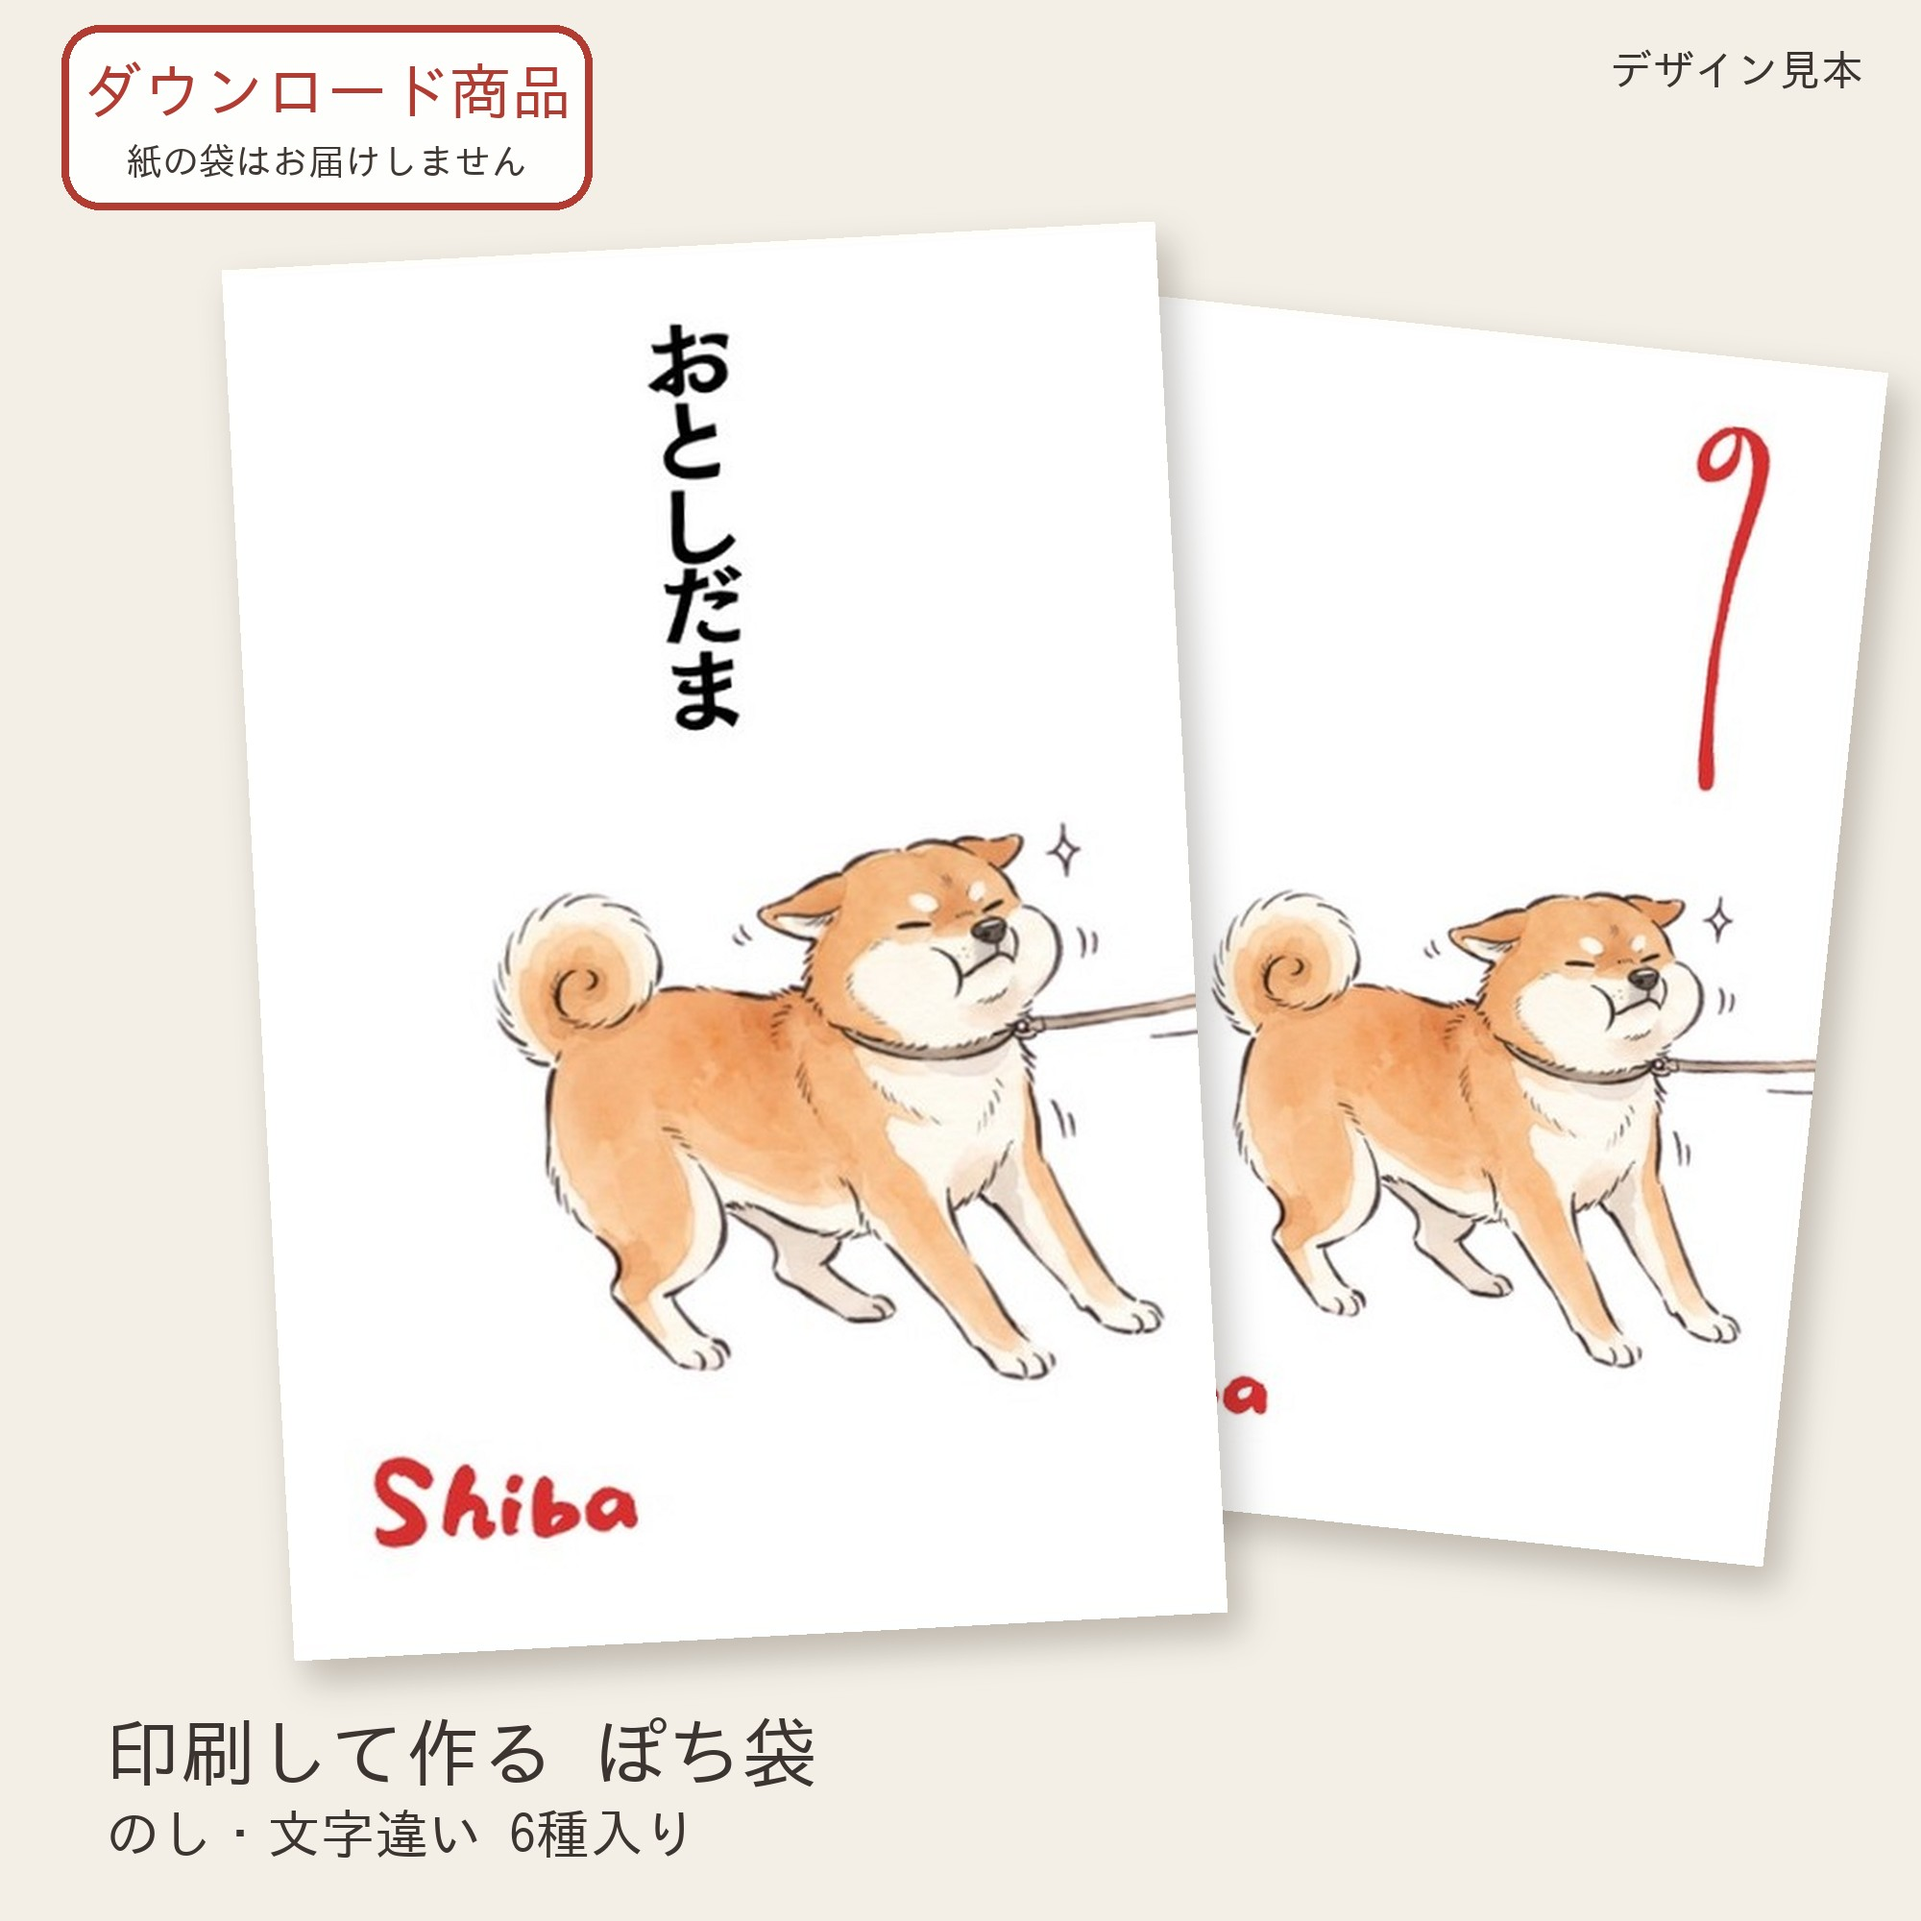
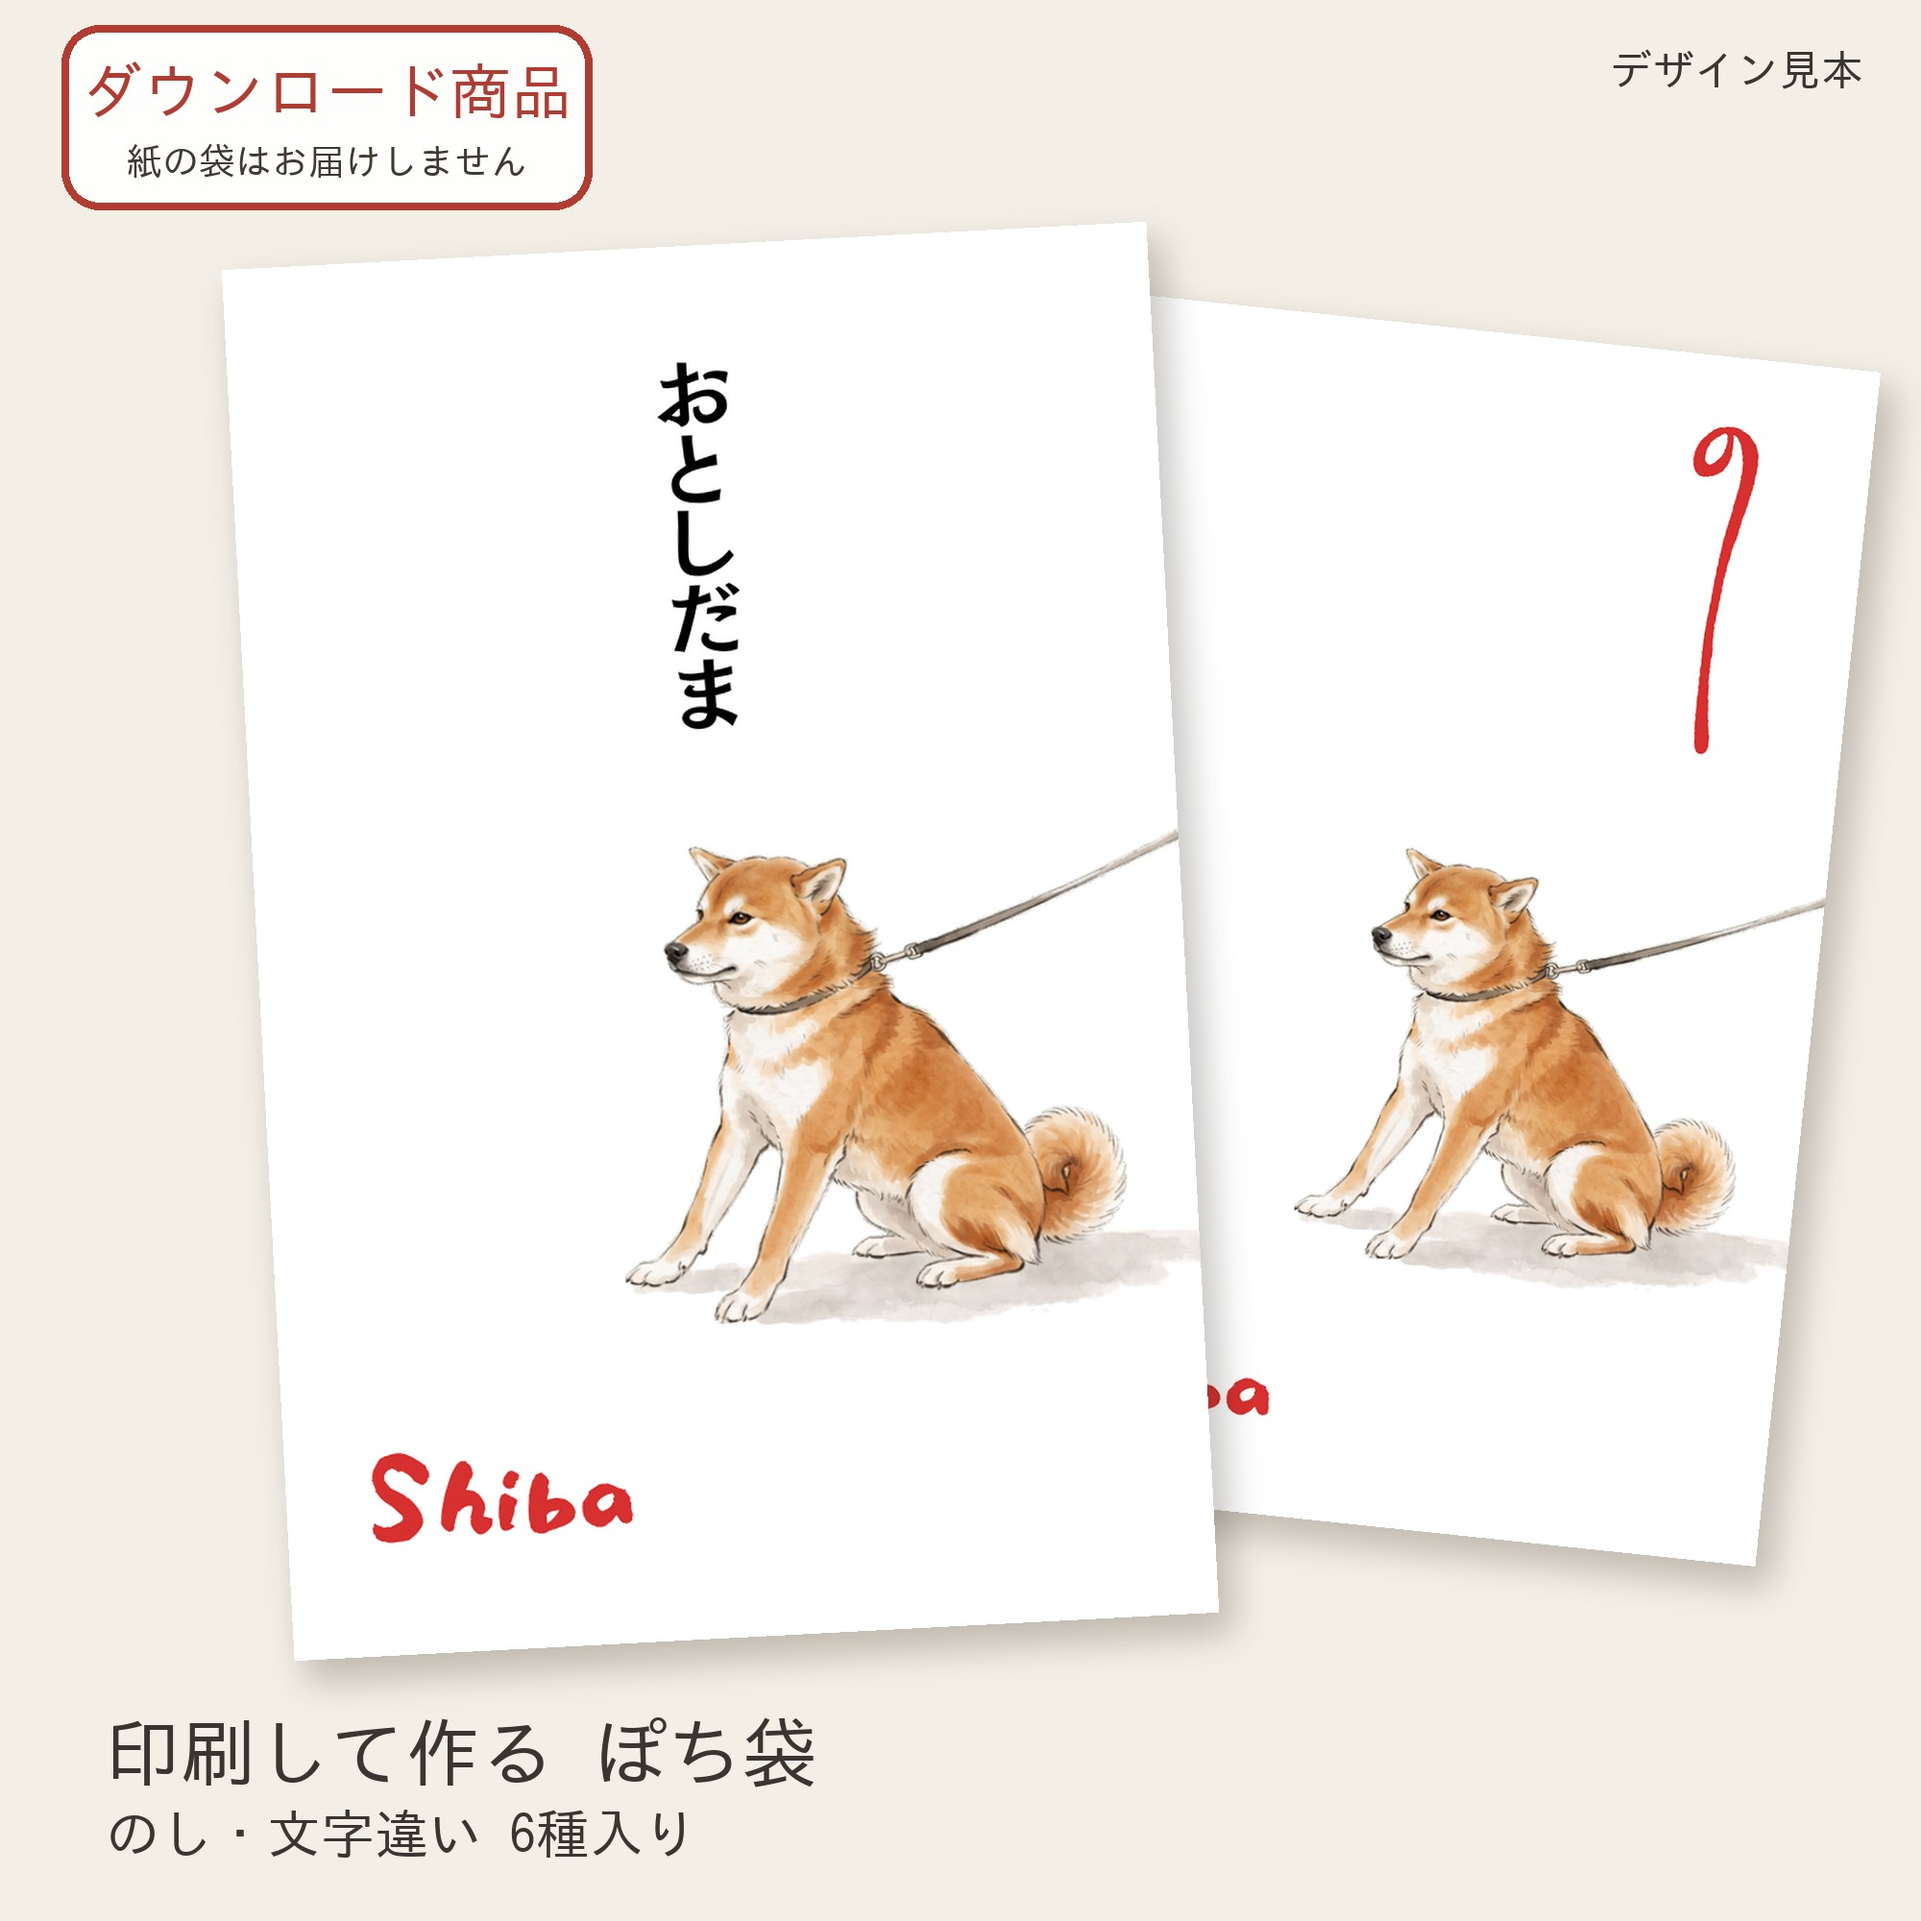
柴犬のぽち袋: 新しい絵で商品画像(1・3枚目)と、ポストカード入りの出品文
Claude-Session: https://claude.ai/code/session_017Q7oY74jx7snH393ipSzN7

diff --git a/docs/minne-pochi-listing-shiba.md b/docs/minne-pochi-listing-shiba.md
@@ -1,30 +1,35 @@
-# 出品文(STEP5) 柴犬のぽち袋 データ版
+# 出品文(STEP5) 柴犬のぽち袋+ポストカード データ版
 
-ほかの犬種は、【】の部分(犬種名・あるある・物語の一段落・タグ1つ)を差し替えるだけで使えるひな形。
+犬の新しい形(500円)。前の版(300円)から書き直した。絵は「写生の水墨画」として書き直した指示文(`minne-pochi-dogs-painterly.md` の柴犬。2回目)で作り直した。Canvaの共通マスターで作り、画像はPDFから `shop/make_from_pdf.py` で作った。
+ポストカードを足して売れ方が変わるか試す、最初の種類の1つ(HANDOFFの「ポストカード」)。
 
 ## 商品名
-柴犬のぽち袋 拒否柴｜お年玉・お礼に｜印刷して作るダウンロード版 のし付き6種(AIを用いた作品)
+柴犬のぽち袋とポストカード 拒否柴｜お年玉・お礼に｜印刷して作るダウンロード版 のし付き6種(AIを用いた作品)
+- minneの商品名の文字数の上限に入るか、出品の画面で確かめる。入らないときは「｜お年玉・お礼に」を外す
 
 ## 価格(仮)
-300円
-- 理由: 1つのデータで6種類の文字違いが入り、個人で使う分は何枚でも印刷できる。紙のぽち袋5枚セット(数百円〜)より安く、気軽に試せる値段。
-- **出品前にminneで「ぽち袋 ダウンロード」を検索し、同じようなデータの価格を確かめる。** 相場が200円前後なら合わせる。
+500円
+- 理由: 1つのデータで6種類の文字違いのぽち袋と、ポストカード2種が入り、個人で使う分は何枚でも印刷できる。
+- **出品前にminneで「ぽち袋 ダウンロード」を検索し、同じようなデータの価格を確かめる。**
 
 ## 発送
 なし(ダウンロード販売。購入後すぐにダウンロードできる)
 
 ## タグ(5つ)
-柴犬 / ぽち袋 / お年玉袋 / ダウンロード / 犬好き
+柴犬 / ぽち袋 / ポストカード / お年玉袋 / 犬好き
+- 前は「ダウンロード」だった所を「ポストカード」にした(ポストカードを探す人にも見つけてもらうため)
 
 ## 説明文
 ```
-散歩の帰り道、急に足を踏ん張って、てこでも動かない。
-柴犬と暮らす人なら、きっと一度は見たことのある「拒否柴」の顔を、ぽち袋にしました。
+散歩の帰り道、急にぺたんと座りこんで、てこでも動かない。リードを引いても、知らん顔。
+柴犬と暮らす人なら、きっと一度は見たことのある「拒否柴」を、ぽち袋とポストカードにしました。
 
 お年玉やちょっとしたお礼を渡すとき、袋を見た相手が「うちの子もこれやる!」と笑ってくれたら。そんな一枚になればうれしいです。
+ポストカードは、飾ったり、お手紙に使ったりできます。
 
 絵は、墨と淡い水彩で描いたような雰囲気に仕上げました。ぽち袋という和の袋に合うように、落ち着いた色にしています。
-踏ん張る柴のリードは、袋のうしろまで続いています。組み立てて裏を返すと、リードの先が見えるしかけです。
+
+※画像は『かんたん4ステップ』以外、AIで作ったイメージ画像です。袋の絵柄は実際の商品と同じです。
 
 ━━━━━━━━━━
 ■ 中身(ZIPファイル1つ)
@@ -33,9 +38,12 @@
  1ページに同じ袋が2つ入っています。使いたいページだけを印刷してください。
  1:のしも文字もなし(手書き用) 2:のしのみ 3:おとしだま
  4:ありがとう 5:おめでとう 6:こころばかり
+・shiba_postcard_full.pdf(ポストカード・絵を大きく入れたもの、ハガキの大きさ)
+・shiba_postcard_letter.pdf(ポストカード・手紙用。すみに小さく絵を入れ、文字を書くところを広くとったもの)
 ・howto.pdf(作り方とご利用について、A4・3ページ)
 
-仕上がりの大きさ:64×95mm(一万円札を三つ折りにして入ります)
+ぽち袋の仕上がりの大きさ:64×95mm(一万円札を三つ折りにして入ります)
+ポストカードの大きさ:100×148mm(はがきと同じ大きさです)
 
 ━━━━━━━━━━
 ■ 作り方
@@ -47,6 +55,8 @@
 ふたは、シールや両面テープで留めてください。
 詳しくは、中に入っている説明書をご覧ください。
 
+ポストカードは、はがき用紙に「実寸(100%)」で印刷するだけで使えます(切る必要はありません)。プリンターの用紙の設定は「はがき」を選んでください。
+
 ━━━━━━━━━━
 ■ ご注意
 ━━━━━━━━━━
@@ -55,7 +65,7 @@
 ・ご自身で使う分は、何枚でも印刷できます。データを人に渡すこと、印刷したものを販売することはできません。
 ・のしはお祝いごとの印です。お見舞いやお悔やみには、1ページ目(のしも文字もなし)をお使いください。
 ・お使いの画面やプリンターによって、色の見え方が少し変わります。
-・商品画像のうち、机や小物が写った画像は、袋以外がイメージです(袋は実際に印刷して作ったものの写真です)。
+・作り方の画像は、柴犬のぽち袋で撮影したものです。組み立て方は同じです。
 
 ━━━━━━━━━━
 ■ 絵について
@@ -71,13 +81,34 @@
 ない犬種・猫の柄は、メッセージでリクエストをお寄せください。多頭飼いの方の組み合わせのご相談もどうぞ。
 ```
 
-## 差し替えるところ(ほかの犬種)
-- 商品名の「拒否柴」「柴犬」
-- 説明文の最初の2段落(あるある)
-- ZIPの中のファイル名
-- タグの1つ目(犬種名)
-
 ## 確かめること(出品前)
-- minneの商品名・タグの文字数と数の上限
-- 「ぽち袋 ダウンロード」の価格の相場
-- ダウンロード販売の画面での「発送」の欄の扱い
+- 絵を確かめた(2回目の絵): 赤柴の成犬が、おしりを地面につけて座りこみ、前足をつっぱって、体をうしろに引いている。リードはまっすぐ右上へぴんと張っている。目は開いた自然な目で、静かにがんこな顔。漫画っぽさはない
+- 袋の名前は「Shiba」(赤い筆の書体。ユーザーが決めた)。12か所とも「Shiba」。ページ左下の名前は「Shiba Inu」
+- リードの先は、袋の右の折り目を約5mmこえて横の部分にかかる(前の版の「裏を返すとリードの続きが見える」しかけはなくなった。説明文からその文を消した)
+- 袋の表は6ページとも64×95mm。縦書きの文字は黒
+- 前の版の商品画像 listing_shiba_2.jpg(場面写真)・listing_shiba_5.jpg(裏のリード)・listing_shiba_6.jpg(手渡しの場面)は、前の絵なので使わない
+- 作り方の画像 listing_shiba_4.jpg は前の絵の柴犬で撮った。ほかの種類と共通なので、そのまま使う(説明文に「柴犬のぽち袋で撮影」と書いてある)
+
+## 場面写真(Geminiのプロンプト)
+袋は真っ白で、ふたを閉じた表側だけ(ふたの線なし、幅:高さ=2:3)で作ってもらい、本物の絵はあとで `shop/make_scene_blank.py` で貼る。
+```
+A warm, natural lifestyle photo, square 1:1. A cozy Japanese entryway (genkan) in soft afternoon light, with a light-wood floor. The background is softly blurred.
+
+On the wooden floor, one small closed Japanese pochi-bukuro money envelope stands upright, propped against a small wooden box. We see only its FRONT side: one clean, flat, plain rectangle of matte white paper with crisp square corners. The flap is already closed and folded to the back, so NO flap, NO V-shaped fold, NO seam and NO fold lines are visible on the front. The rectangle is exactly 2:3 in width to height (6.4 cm wide, 9.5 cm tall), not narrower. The front is COMPLETELY BLANK: no drawing, no text, no pattern, no logo, no noshi mark. The envelope faces the camera straight on, flat and not tilted, with all four corners clearly visible and not covered by anything. It stands in the front right of the frame and takes up about 25% of the image width, large and easy to see.
+
+On the left, just inside the open front door, a real red Shiba Inu sits down firmly on the floor with its front legs braced, refusing to go back out for a walk, its leash lying on the floor beside it. Calm, stubborn face, eyes open and natural. Real dog, not a cartoon. The dog does not touch or cover the envelope.
+
+Photorealistic, shallow depth of field, gentle shadows, calm muted colors. No people, no hands, no text anywhere in the image.
+```
+
+## ZIPの名前
+uchinoko-aruaru_shiba_pochi.zip(中身: shiba_pochi.pdf、shiba_postcard_full.pdf、shiba_postcard_letter.pdf、howto.pdf)
+
+## 商品画像
+1. shop/listing_shiba_1.jpg(デザイン見本)
+2. shop/scene_shiba_1_note.jpg(場面写真)(まだ。Geminiの写真を待っている)
+3. shop/listing_shiba_3.jpg(6種類)
+4. ポストカードの見本(まだ。もとの絵を待っている)
+5. shop/listing_shiba_4.jpg(作り方)
+- 1と3は `python3 shop/make_from_pdf.py <PDF> shiba --overwrite` で作った
+- ポストカードは `shop/make_postcard.py` で作る。もとの絵(Canvaに入れる前の画像)が必要(PDFの中の絵は小さすぎる)
